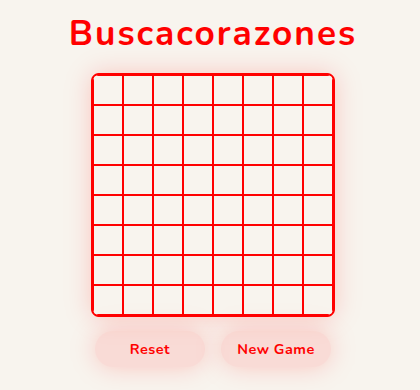
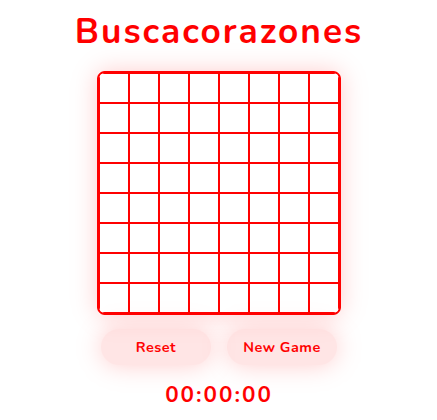
Change screenshot image

Changed region(s): [[0.1857, 0.1538, 0.8357, 0.9846], [0.1548, 0.0308, 0.8667, 0.1231]]

diff --git a/js/Game.js b/js/Game.js
@@ -181,7 +181,7 @@ class Game {
     openBox(box) {
         if (!box || box.element.classList.contains("open")) return;
         box.element.classList.add("open");
-        box.element.style.setProperty("background-color", "rgba(255,0,0,0.1)", "important");
+        box.element.style.setProperty("background-color", "rgba(255,0,0,0.2)", "important");
         box.element.style.setProperty("border", "1px solid rgba(255,0,0)", "important");
         if (box.heartsAround > 0) {
             box.element.style.setProperty("color", "rgba(255,0,0)", "important");

diff --git a/style.scss b/style.scss
@@ -1,6 +1,5 @@
 @import url('https://fonts.googleapis.com/css2?family=Nunito:wght@400;600;700&display=swap');
 
-$blanco: #F8F4EE;
 
 
 * {
@@ -16,7 +15,7 @@ body {
     min-height: 100vh;
     margin: 0;
     padding: 20px;
-    background: $blanco;
+    background: white;
     color: rgba(255,0,0);
 }
 
@@ -46,7 +45,7 @@ h1 {
 
 .box {
     border: 1px solid rgba(255,0,0);
-    background-color: $blanco;
+    background-color: white;
     color: #f0f0f0;
     font-weight: 700;
     font-size: 0.75rem;

diff --git a/index.html b/index.html
@@ -6,6 +6,7 @@
     <title>Buscorazones</title>   
 </head>
 <body>
+    
     <h1>Buscacorazones</h1>
     <div id="contenedor">
         <div id="tablero"></div>
